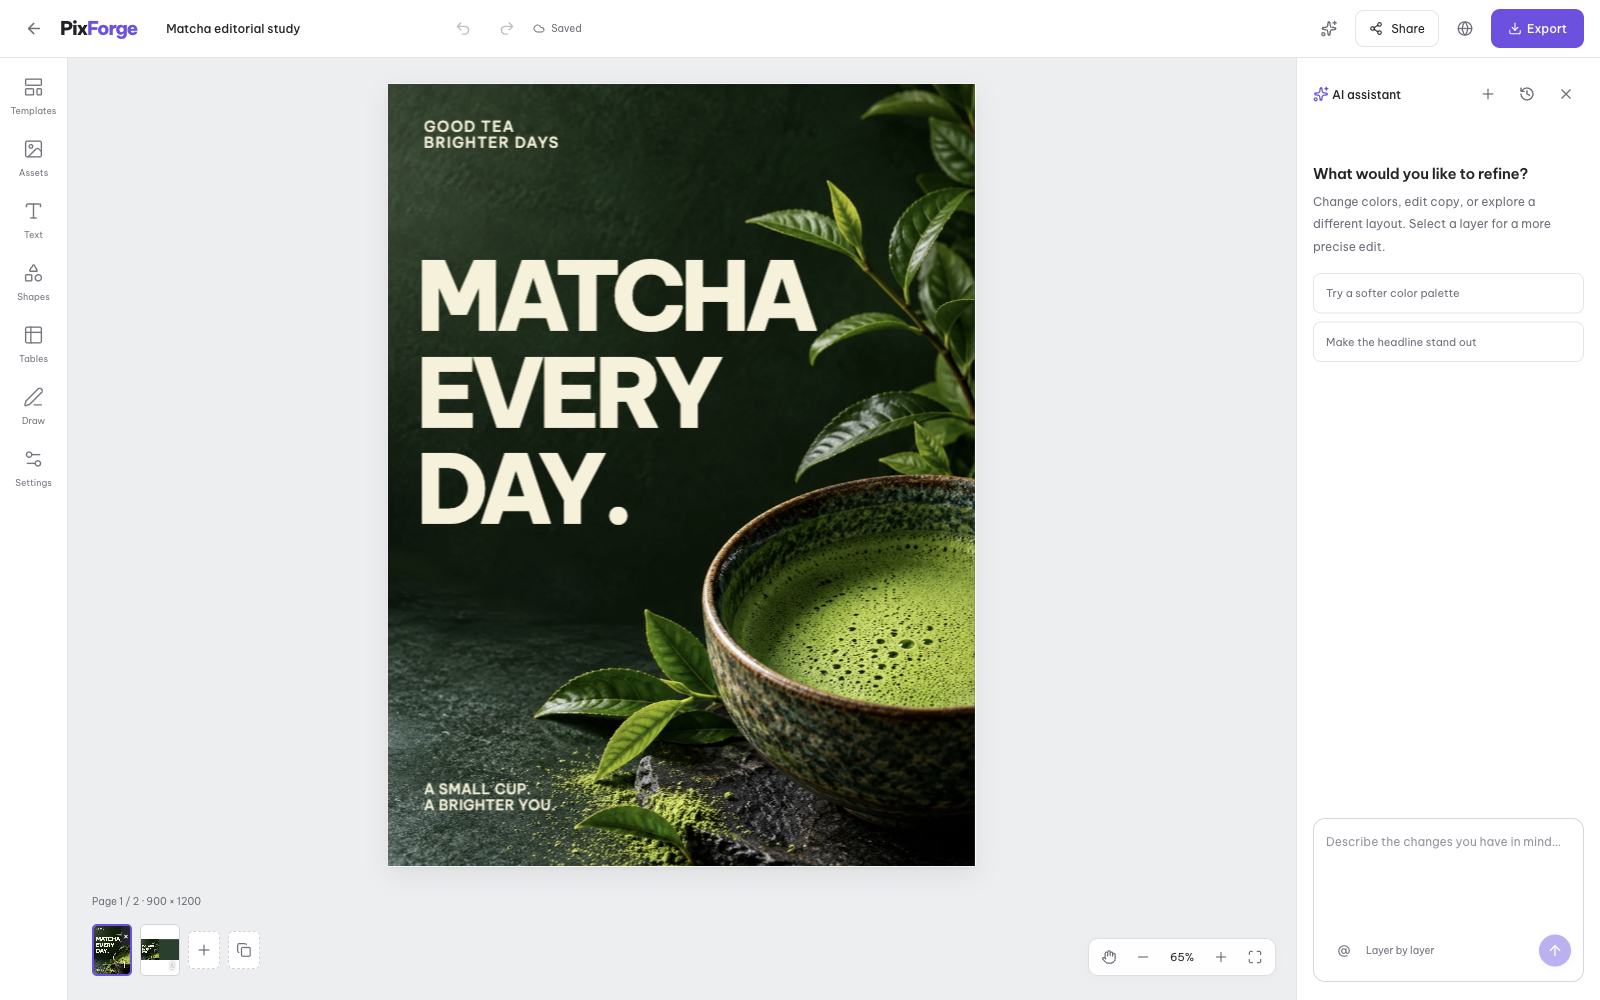
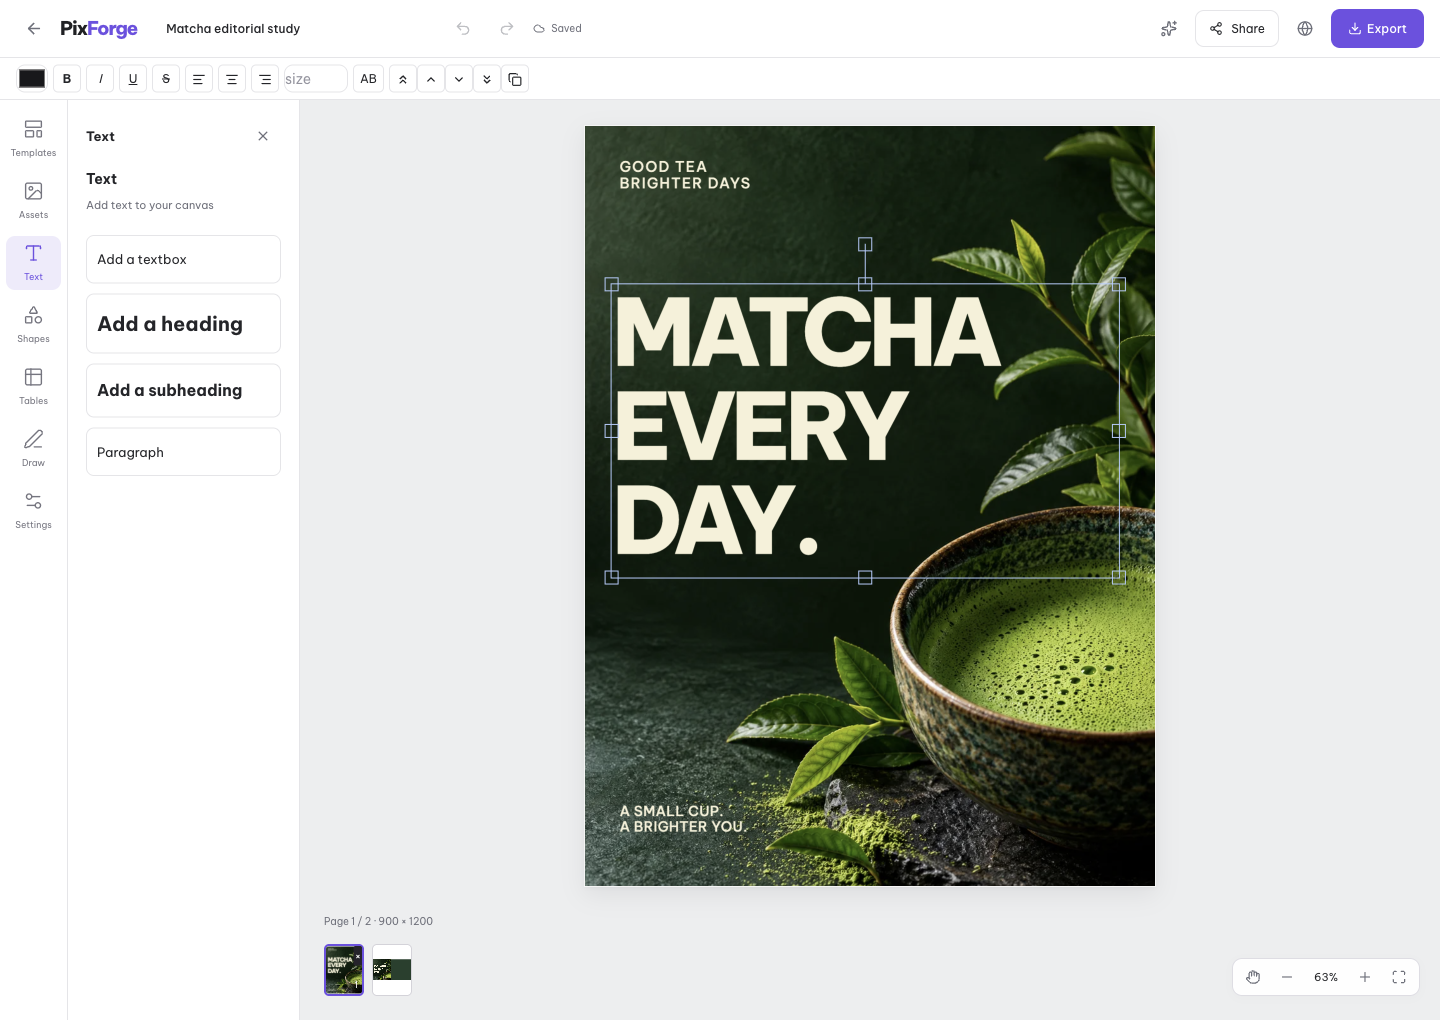
docs: redesign README with real template artwork and precise layer-editing story

diff --git a/README.md b/README.md
@@ -1,130 +1,180 @@
 <p align="center">
-  <img width="100%" src="docs/screenshots/banner.svg" alt="PixForge — self-hosted AI visual design studio">
+  <img src="docs/screenshots/banner.png" width="100%" alt="PixForge — Generate the image. Keep the control. Three real studio templates: matcha, music festival, and botanical skincare.">
 </p>
 
 <p align="center">
-  <a href="LICENSE"><img src="https://img.shields.io/badge/license-MIT-7050e5" alt="MIT"></a>
-  <img src="https://img.shields.io/badge/tests-152%20passing-65a68d" alt="tests">
-  <img src="https://img.shields.io/badge/Next.js-15-242529" alt="Next.js 15">
-  <img src="https://img.shields.io/badge/Fabric.js-7-1246ed" alt="Fabric.js 7">
-  <img src="https://img.shields.io/badge/self--hosted-BYOK-f59e0b" alt="Self-hosted, BYOK">
+  <strong>An open-source AI design studio. Generate artwork. Edit the composition. Make it yours.</strong>
 </p>
-
-> **AI image chats hand you pixels. PixForge hands you the design.**
-
-PixForge is an open-source, self-hostable AI visual design studio. An agent composes your design as real, editable layers — then you take over: retype the headline, pin the layout, swap the artwork, stamp your brand, and export to exact formats. Your keys. Your server. Your data.
 
 <p align="center">
-  <img width="100%" src="docs/screenshots/editor.png" alt="PixForge editor — a generated matcha poster kept fully editable on a Fabric canvas">
+  <a href="#quick-start">Quick start</a> ·
+  <a href="#what-editable-actually-means">How layers work</a> ·
+  <a href="#bring-your-own-provider">Providers</a> ·
+  <a href="#build-it-into-your-workflow">API & agent skills</a> ·
+  <a href="LICENSE">MIT license</a>
 </p>
 
-## The re-roll tax
+---
 
-Every image-model re-roll is a dice roll. Fix one typo and the whole composition changes. Brand colors drift page to page. The output is one flat image in one fixed ratio — so real design work degenerates into prompting, praying, and regenerating.
+## Good images are a starting point. Finished designs need control.
 
-PixForge removes the tax: **generation ends in an editable scene, not a flattened PNG.**
+A campaign headline changes. An event date moves. A client wants the logo larger. These are layout and copy edits—not reasons to generate a whole new image.
 
-```
-prompt → planner (LLM) → artwork (your provider) → layered Fabric scene → your edits → PNG · JPG · PDF · PPTX · ZIP
-```
+**PixForge pairs AI image generation with a real, layer-based canvas.** Combine generated artwork with editable text, shapes, and your own assets. Refine the composition by hand, keep multiple pages in one project, and export the result without leaving the studio.
+
+Run it on your own machine or server. Bring your own supported provider. Keep your projects under your control.
+
+## What editable actually means
 
 <p align="center">
-  <img width="100%" src="docs/screenshots/layers.svg" alt="A generated design as four editable layers: artboard, artwork image, headline text, caption text">
+  <img src="docs/screenshots/editor.png" width="100%" alt="Real PixForge editor with the Matcha Every Day headline selected as a native text object. Selection handles, text-formatting controls, page thumbnails, and export are visible.">
+  <br>
+  <sub>Actual editor, bundled Matcha template. The selected headline is a text object—not lettering baked into the photograph.</sub>
 </p>
 
-**What "editable" means in practice:**
+**The image and the design are different things.** A PixForge document contains separate canvas objects:
 
-- **Text is real text.** Click the headline and retype it — font, weight, color, spacing, alignment. No re-generation, no cost, no drift.
-- **Layout is yours.** Move, rotate, reorder, duplicate, or delete any layer. Add headings, shapes, tables, drawings, your logo. Snap the artboard to IG, TikTok, A4, 16:9, or custom pixels.
-- **AI edits are surgical.** Select a layer, say what to change — the agent regenerates the artwork while your copy and composition stay pinned. The old state stays in undo.
-- **Every format, one click.** PNG · JPG · PDF (mixed page sizes) · PPTX · ZIP.
+| Object | What you can change |
+| :--- | :--- |
+| **Text** | Rewrite copy, adjust size, weight, color, alignment, and spacing |
+| **Images** | Move, resize, rotate, reorder, or replace artwork and uploaded assets |
+| **Shapes & additions** | Add graphic elements, tables, drawings, and more text |
+| **Artboard** | Set document dimensions independently for each page |
 
-## vs. a plain image chat
+Move a native headline without moving the photograph. Fix its wording without calling an image model. Duplicate a page and adapt the copy for another placement. Undo changes and let autosave preserve the project.
 
-| | Image chat (e.g. ChatGPT) | PixForge |
-| --- | --- | --- |
-| Fix a typo | re-roll the whole image | edit the text layer — free |
-| Exact size / format | few fixed ratios, image only | any artboard + PNG/JPG/PDF/PPTX/ZIP |
-| Multi-page series | prompt page by page, style drifts | one prompt → up to 9 coherent pages in one project |
-| Brand consistency | re-describe the brand every time | Brand Kit injects colors, fonts, guidance automatically |
-| Mistakes | no undo | full undo/redo history + autosave |
-| Reuse | keep prompts (hope they hold) | publish templates as editable scene JSON |
-| Automation | manual chatting | HTTP API + agent skills (Claude Code, Codex, Cursor, Gemini CLI) |
-| Models | locked to one vendor | BYOK: codex · openai · fal · replicate · comfyui · mock |
+> **Layers, not magic image decomposition.** PixForge does not turn every object or letter inside a generated image into an editable layer. Generated scenes currently contain an artwork image and, when supplied by the planner, a separate copy textbox on the first page. Bundled templates include more deliberately composed text and shape objects. Text already embedded in the artwork remains pixels.
 
-## Built for real work
+## A studio around your image model
 
-- **Multi-page projects** — duplicate, resize, and reorder pages; each keeps its own artboard.
-- **Brand Kit** — logos, colors, fonts, and guidance applied to every generation.
-- **Community templates** — share a design as a fully editable scene, not a JPEG.
-- **Toolbox** — converters, resizer, charts, AI editor, Xiaohongshu/RED carousel creator.
-- **For agents** — API keys, task polling, chunked upload, and installable `SKILL.md` skills.
+### 01 — Generate a starting point
 
-## Bring your own keys
+Describe the visual, choose dimensions and page count, and follow the streamed generation progress. Use a supported image provider for real artwork, or explore the editor with the keyless mock provider and bundled templates.
 
-Copy `.env.example` to `.env` — leave it blank for the offline mock provider.
+### 02 — Make the design yours
 
-| Variable | Options |
-| --- | --- |
-| `IMAGE_PROVIDER` | `mock` (default) · `codex` · `openai` · `fal` · `replicate` · `comfyui` |
-| `LLM_PROVIDER` | `mock` (default) · `openai` · `openrouter` · `ollama` |
+Edit native objects directly on the Fabric.js canvas. Add your own images and copy, adjust the stacking order, use undo/redo, and work across pages with different dimensions. Save projects locally through the app, reopen them, or publish an editable community template.
 
-**No API key at all?** Run `codex login` once (Sign in with ChatGPT), set `IMAGE_PROVIDER=codex` — generation runs through the Codex CLI's `$imagegen` on your existing plan quota.
+Brand Kit stores brand information; its written guidance is passed to the generation planner. It is a prompt aid, not a guarantee that every font, logo, or color will be applied automatically.
+
+### 03 — Take it into production
+
+Export **PNG, JPG, PDF, PPTX, or a ZIP of page images**. PDF preserves mixed page sizes. PPTX places rendered artwork on slides; it does **not** convert canvas layers into native PowerPoint text and shapes.
+
+The Toolbox also brings together format conversion, image resizing, chart creation, and provider-backed image tasks.
+
+## When to use this instead of an image chat
+
+**Use an image chat when the image itself is the deliverable. Use PixForge when you also need to assemble, revise, and reuse a design.** It adds a workflow around image models—not a claim of a better underlying model.
+
+| Your task | With an image-only result | With PixForge |
+| :--- | :--- | :--- |
+| Change a headline or event date | Edit the image or regenerate it | Edit the native textbox, if the copy is a separate layer |
+| Move a logo or adjust a composition | Open a separate editor | Work on canvas objects in the same studio |
+| Organize a multi-page project | Manage separate outputs | Keep pages, dimensions, and revisions in one project |
+| Reuse a layout | Rebuild it or reuse a flattened image | Save and share an editable scene as a template |
+| Deliver files | Convert and assemble them elsewhere | Export images, PDF, PPTX, and ZIP from the editor |
+| Automate recurring tasks | Depends on the service and its API | Use the self-hosted task API and coding-agent skills |
+
+**Important:** the current AI refinement flow can replace the active page with a newly generated scene. It is not a surgical, selection-only edit and does not guarantee preservation of your existing layers. Use direct canvas editing for precise changes to existing objects.
 
 ## Quick start
 
+**Requirements:** Node.js 22 and pnpm 10. No provider key, PostgreSQL, or Redis is needed to explore the default local setup.
+
 ```bash
+git clone https://github.com/cuongducle/pixforge.git
+cd pixforge
 pnpm install
-pnpm dev            # http://localhost:3100 — mock provider, no keys needed
+
+# Build the workspace packages before starting the web app.
+pnpm exec turbo run build --filter='./packages/*'
+pnpm --filter @pixforge/web dev
 ```
 
-Optional worker and tests:
+Open **[localhost:3100](http://localhost:3100)**. Start with a bundled template to try real text and object editing. The default mock provider is for testing the workflow; it does not generate production AI artwork.
+
+## Bring your own provider
+
+For the web app, copy the example configuration into Next.js's local environment file, then edit it and restart the server:
 
 ```bash
-docker compose -f docker/docker-compose.yml up -d redis
-REDIS_URL=redis://localhost:6379 pnpm --filter @pixforge/worker dev   # background tasks
-
-pnpm build && pnpm typecheck
-REDIS_URL=redis://localhost:6379 pnpm test                            # 152 tests
+cp .env.example apps/web/.env.local
 ```
 
-### Self-host API
+The **current provider registry** implements:
+
+| Role | Provider | Setup |
+| :--- | :--- | :--- |
+| Image | `mock` | Default; no credentials |
+| Image | `codex` | Installed Codex CLI with image generation available and an authenticated ChatGPT login |
+| Image | `openai` | `OPENAI_API_KEY` |
+| Image | `fal` | `FAL_KEY` |
+| Planner | `mock` | Default; no credentials |
+| Planner | `openai` | `OPENAI_API_KEY` |
+
+For example, to use your existing Codex login:
 
 ```bash
-# Create a key at http://localhost:3100/for-agents
-curl -X POST localhost:3100/api/tasks/generate-poster \
-  -H 'content-type: application/json' \
-  -d '{"prompt":"pastel coffee poster","noWait":true}'
+codex login
+IMAGE_PROVIDER=codex pnpm --filter @pixforge/web dev
 ```
 
-`{code, data, msg}` envelope · poll `GET /api/tasks/{taskId}` (24h TTL) · chunked upload `chunk-init → chunk → chunk-complete` · set `PIXFORGE_REQUIRE_KEY=1` in production.
+Codex image generation depends on CLI support and account access, and consumes the applicable account allowance. Other paid providers bill through your own account. **Self-hosted does not mean generation is free.** Provider names beyond the implemented registry should not be treated as working integrations.
+
+## Build it into your workflow
+
+Submit tasks from a script, another app, or a coding agent. Create a key in **For Agents** and set `PIXFORGE_REQUIRE_KEY=1` to enforce keys on the guarded task endpoints.
+
+```bash
+curl -X POST http://localhost:3100/api/tasks/generate-poster \
+  -H 'Content-Type: application/json' \
+  -H "Authorization: ${PIXFORGE_API_KEY}" \
+  -d '{"prompt":"A minimal coffee campaign poster"}'
+```
+
+The default submission returns a task ID; poll `GET /api/tasks/{taskId}` for the result. Responses use a `{code, data, msg}` envelope. Task records have a 24-hour TTL.
+
+Installable instructions for coding agents live in [`packages/skills/skills`](packages/skills/skills). Configure `PIXFORGE_BASE_URL` and `PIXFORGE_API_KEY` for your instance.
 
 <details>
-<summary><strong>Monorepo layout</strong></summary>
+<summary><strong>Development, tests, and project structure</strong></summary>
 
+```bash
+pnpm build
+pnpm typecheck
+pnpm test
+
+# Include real Redis-backed integration tests when Redis is available.
+docker compose -f docker/docker-compose.yml up -d redis
+REDIS_URL=redis://localhost:6379 pnpm exec turbo run test --force
 ```
-apps/web            Next.js app — studio UI, editor, REST + SSE API
-apps/worker         background task worker (BullMQ / in-process)
-packages/schema     zod schemas: scene graph, SSE protocol, task types
-packages/protocol   SSE decoder + [[task::]]/[[canvas::]] markers + golden fixture
-packages/canvas     Fabric wrapper, editor presets, pages, export planner
-packages/providers  BYOK adapters: image (mock/codex/openai/fal/…) · llm (mock/openai/…)
-packages/agent      designer agent: planner → image tool → progressive canvas events
-packages/tasks      task store, queue (BullMQ), processors, uploads, projects, templates
-packages/db         drizzle schema (users/sessions/projects/brandkits/templates/api_keys)
-packages/skills     SKILL.md agent skills
-docker/             postgres + redis + minio compose files
-docs/               design direction and verification notes
+
+The repository includes unit and integration coverage for the editor utilities, stream protocol, providers, task processing, persistence, and worker flows. See [browser verification notes](docs/design/verification.md) for the recorded editor and export checks.
+
+```text
+apps/web            Next.js studio, Fabric editor, REST and SSE endpoints
+apps/worker         Background worker
+packages/agent      Planning and streamed scene generation
+packages/canvas     Canvas utilities, page handling, and export planning
+packages/providers  Image and language-model adapters
+packages/protocol   Stream decoder and message markers
+packages/schema     Shared validation and scene schemas
+packages/tasks      Task processing, files, projects, and templates
+packages/db         Database schema definitions
+packages/skills     Coding-agent instructions
 ```
 
 </details>
 
-## Honest limits
+## Deployment & current boundaries
 
-- Editing pixels *inside* the artwork still means a provider re-roll (reference-image generation) — PixForge pins everything else around it.
-- The `codex` route uses your ChatGPT plan quota; PixForge adds the studio around it, not cheaper generation.
-- Background removal needs the `rembg` CLI. PPT Translator is a coming-soon landing page. The interface is English; generation follows your prompt's language.
+- **Designed for a trusted self-hosted environment.** API-key checks on guarded routes are not a complete, application-wide authentication system. Put the app behind access control before exposing it publicly.
+- **Local storage by default.** Project and asset persistence uses the app's local data directory. Use a persistent volume or set `PIXFORGE_DATA_DIR`; back it up before upgrading.
+- **Artwork remains raster.** Object-level canvas edits do not edit pixels inside the underlying image. Reference-image support also varies by provider.
+- **Some tools need extra setup or are unfinished.** Background removal requires `rembg`. PPT Translator is coming soon; the image-translation task is not implemented.
+- **Your provider remains involved.** Prompts and images used for generation go to the configured provider. Running the studio locally does not make external model calls private to your machine.
 
-## License
+## Open source
 
-MIT — see [LICENSE](LICENSE).
+PixForge is released under the [MIT license](LICENSE). Explore the code, adapt the studio to your workflow, and contribute through [issues](https://github.com/cuongducle/pixforge/issues) or pull requests.
